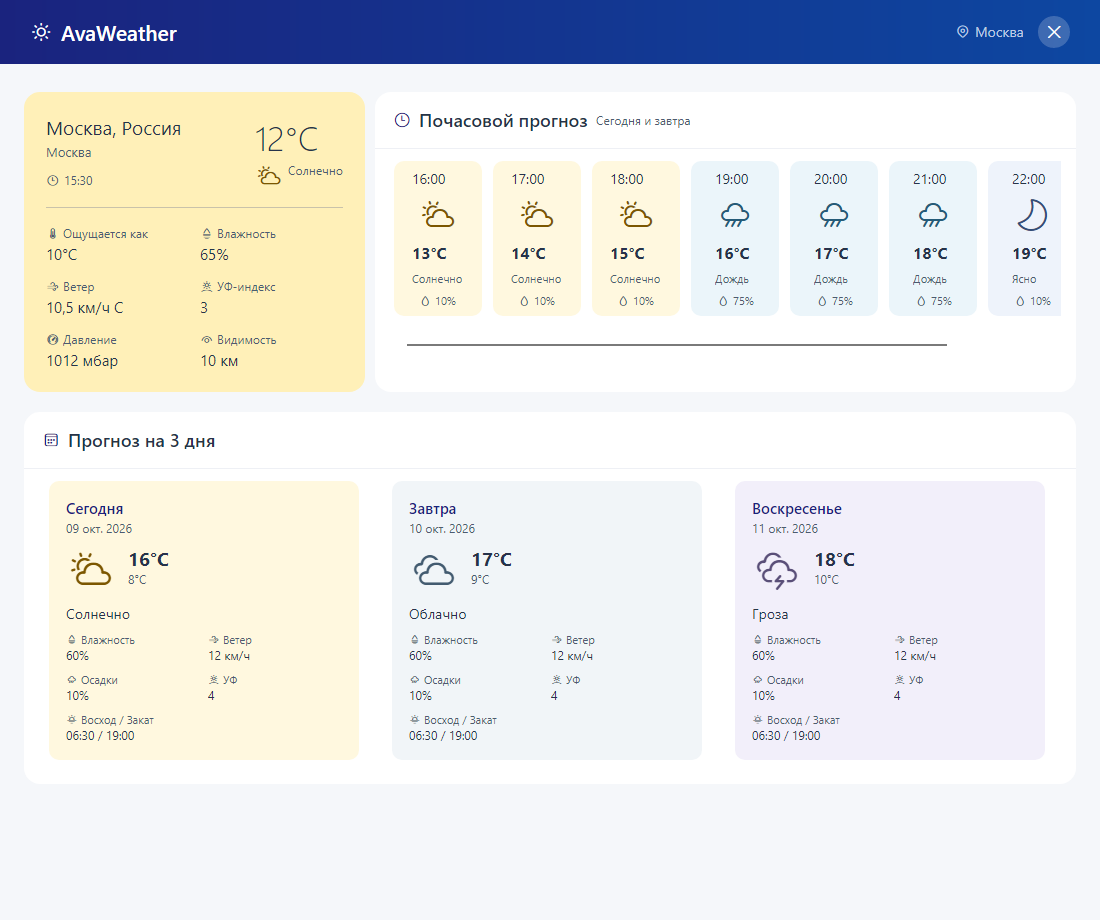
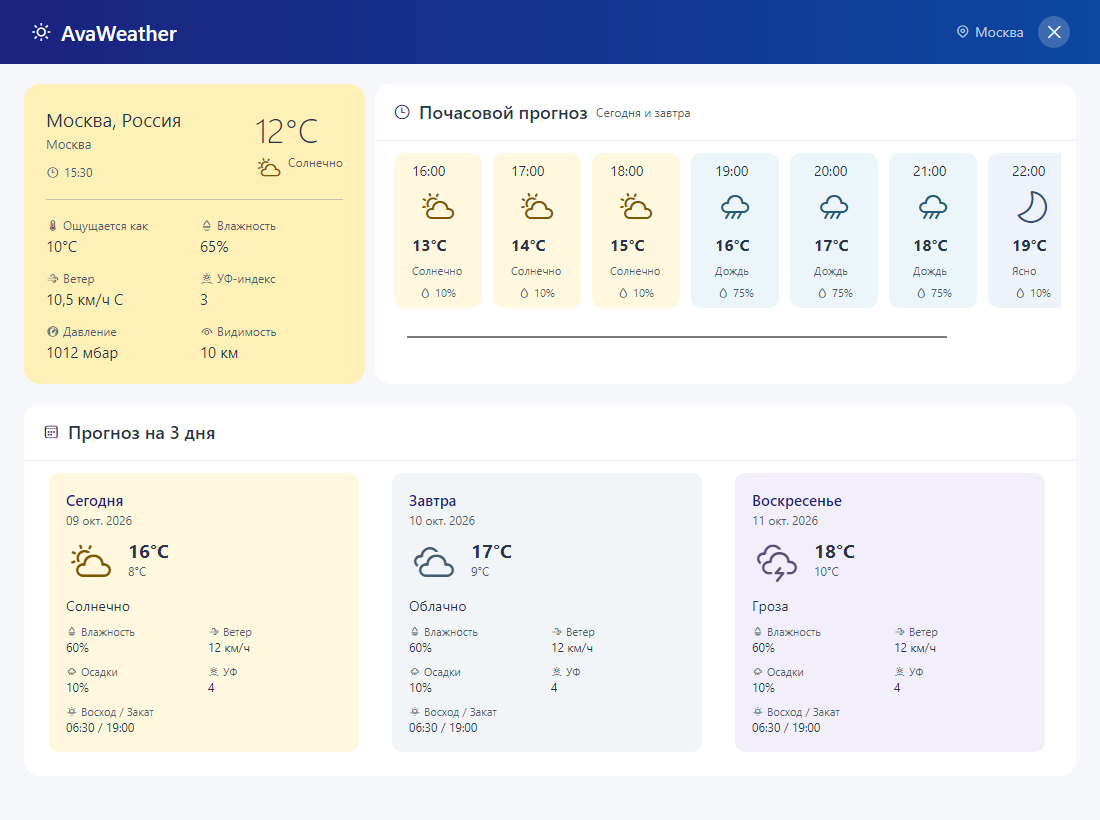
Set compact initial window height to 820 pixels

diff --git a/AvaWeather.Tests/WeatherViewTests.cs b/AvaWeather.Tests/WeatherViewTests.cs
@@ -53,7 +53,7 @@ public class WeatherViewTests
         Assert.Equal(WindowDecorations.None, window.WindowDecorations);
         Assert.True(window.ExtendClientAreaToDecorationsHint);
         Assert.True(window.CanResize);
-        Assert.True(window.Height >= 920);
+        Assert.Equal(820, window.Height);
         var header = window.GetVisualDescendants().OfType<Border>()
             .Single(border => border.Name == "WeatherHeader");
         Assert.Equal(WindowDecorationsElementRole.TitleBar,

diff --git a/AvaWeather/Views/WeatherView.cs b/AvaWeather/Views/WeatherView.cs
@@ -47,7 +47,7 @@ public sealed class WeatherView : UserControl
                 {
                     MaxWidth = 1180,
                     HorizontalAlignment = HorizontalAlignment.Stretch,
-                    Margin = new Thickness(24, 28),
+                    Margin = new Thickness(24, 20),
                     Spacing = 20,
                     Children =
                     {

diff --git a/AvaWeather/Views/MainWindow.cs b/AvaWeather/Views/MainWindow.cs
@@ -13,7 +13,7 @@ public sealed class MainWindow : Window
         Title = "AvaWeather";
         Icon = new WindowIcon(AssetLoader.Open(new Uri("avares://AvaWeather/Assets/app-icon.png")));
         Width = 1180;
-        Height = 920;
+        Height = 820;
         MinWidth = 490;
         MinHeight = 520;
         CanResize = true;
